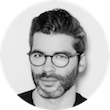
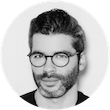
Add several design improvements
- New more paragraph in home and about with additional information about
parallel activities and memberships
- site.title is now used everywhere
- stackoverflow profile link
- some line height parameteres changed
- use improved rotated image

Changed region(s): [[0.1364, 0.0545, 0.8182, 0.9818], [0.4636, 0.9818, 0.5182, 1.0], [0.4636, 0.6273, 0.4909, 0.6545]]

diff --git a/_layouts/home.html b/_layouts/home.html
@@ -7,7 +7,7 @@
 {% include _head.html %}
 </head>
 
-<body class="home">
+<body class="page">
 
 {% include _browser-upgrade.html %}
 
@@ -28,22 +28,61 @@
 <!--</div>-->
 <!--{% endif %}-->
 
-<div class="article-author-side">
-  {% include _author-bio.html %}
-</div>
-
-<div id="index">
-    <!--<h3><a href="{{ site.url}}/posts/">Recent Posts</a></h3>-->
-  {% for post in site.posts limit:5 %}    
+<div id="main" role="main">
+  <div class="article-author-side">
+    {% include _author-bio.html %}
+  </div>
   <article>
-    {% if post.link %}
-      <h2 class="link-post"><a href="{{ site.url }}{{ post.url }}" title="{{ post.title }}">{{ post.title }}</a> <a href="{{ post.link }}" target="_blank" title="{{ post.title }}"><i class="fa fa-link"></i></h2>
-    {% else %}
-      <h2><a href="{{ site.url }}{{ post.url }}" title="{{ post.title }}">{{ post.title }}</a></h2>
-      <p>{{ post.excerpt | strip_html | truncate: 160 }}</p>
-    {% endif %}
+      <!--<h1>{{ page.title }}</h1>-->
+    <div class="article-wrap">
+      {{ content }}
+
+      <div class="more">
+      {% capture text-capture %}
+
+##### Reviewer for Journals
+International Journal of Information Security (IJIS)<br>
+Information Security Journal: A Global Perspective (ISJ)<br>
+Information Security Technical Report (ISTR)<br>
+Journal of Information Security and Applications (JISA)<br>
+Data Mining and Knowledge Discovery (DAMI)<br>
+IET Information Security (IET-IS)<br>
+Pervasive and Mobile Computing (PMC)<br>
+Security and Communication Networks (SCN)<br>
+Transactions on Dependable and Secure Computing (TDSC)<br>
+Neural Computing and Applications (NCAA)<br>
+
+##### External Reviewer
+CCS<br>
+DIMVA<br>
+
+##### PC Memberships
+2018: Jornadas Nacionales de Ciberseguridad (JNIC)<br>
+2017: International Workshop on FORmal methods for Security Engineering (ForSE)<br>
+
+##### Organizations
+
+Norway Chapter Lead @ The Honeynet Project<br>
+Security Without Borders<br>
+
+##### Teaching
+Seminar Malware Analysis and Detection, WS 17/18 (Assistant)<br>
+Seminar Malware Analysis and Detection, WS 16/17 (Assistant)<br>
+Seminar Malware Analysis and Detection, WS 15/16 (Assistant)<br>
+
+##### Bachelor and Master Thesis
+
+##### Awards
+German Prize for IT-Security 2016 (2nd Place)
+
+
+        {% endcapture %}
+
+        {% include widgets/toggle.html name="more-text" button-text="•••" text=text-capture %}
+
+    </div><!-- /.more -->
+    </div><!-- /.article-wrap -->
   </article>
-  {% endfor %}
 </div><!-- /#index -->
 
 <div class="footer-wrap">
@@ -52,7 +91,10 @@
   </footer>
 </div><!-- /.footer-wrap -->
 
-{% include _scripts.html %}
-  
+{% include _scripts.html %}          
+
+
+
+
 </body>
 </html>

diff --git a/_sass/elements.scss b/_sass/elements.scss
@@ -65,6 +65,50 @@ svg:not(:root) {
     color: $primary;
   }
 }
+label.btn-more{
+  display: inline-block;
+  transition: .1s;
+  cursor: pointer;
+  user-select: none;
+  margin-bottom: 5px;
+  padding: 2px 5px;
+  @include font-rem(7);
+  background-color: $white;
+  color: $primary;
+  @include rounded(3px);
+  //&:visited {
+  //  color: $white;
+  //}
+  &:hover {
+  background-color: $primary;
+  color: $white;
+  border-width: 2px !important;
+  border-style: solid !important;
+  border-color: $primary;
+  }
+  &:active{
+  background-color: $white;
+  color: $primary;
+  }
+}
+input.btn-more{
+    display:none;
+}
+input.btn-more + *{
+    visibility: hidden;
+}
+input.btn-more:checked + *{
+    visibility: visible;
+}
+// When JavaScript is disabled, we hide the more toggle button
+.no-js .btn-more{
+	display: none;
+}
+// When JavaScript is disabled, we show the more content 
+.no-js input.btn-more + *{
+    visibility: visible;
+}
+
 .btn-success {
   background-color: $success;
   color: $white;
@@ -122,4 +166,8 @@ svg:not(:root) {
 	border: 1px solid #e3e3e3;
 	@include rounded(4px);
 	@include box-shadow(inset 0 1px 1px rgba(0, 0, 0, 0.05));
+}
+
+.more {
+    margin-top: 10px;
 }

diff --git a/_sass/typography.scss b/_sass/typography.scss
@@ -11,15 +11,19 @@ h2 {
 }
 h3 {
 	@include font-size(24);
+    margin: 5px 0px;
 }
 h4 {
 	@include font-size(18);
+    margin: 5px 0px;
 }
 h5 {
 	@include font-size(16);
+    margin: 5px 0px;
 }
 h6 {
 	@include font-size(14);
+    margin: 5px 0px;
 }
 
 // Links
@@ -111,14 +115,15 @@ blockquote {
 // Paragraphs
 // --------------------------------------------------
 p {
-	margin: 0 0 $indent-var;
-	// sibling indentation
-  @if $paragraph-indent == true {
-    & + p {
-			text-indent: $indent-var;
-			margin-top: -($indent-var);
-		}
-	}
+	//margin: 0 0 $indent-var;
+	margin: 0;
+  // sibling indentation
+  //@if $paragraph-indent == true {
+  //  & + p {
+  //		text-indent: $indent-var;
+  //			margin-top: -($indent-var);
+  //	}
+  //}
 }
 
 // Code

diff --git a/_includes/_author-bio.html b/_includes/_author-bio.html
@@ -7,7 +7,8 @@
 {% else %}
 <!--<img src="{{ site.url }}/images/{{ author.avatar }}" class="bio-photo" alt="{{ author.name }}"></a>-->
 {% endif %}
-<h4>{{ author.name }}</h4>
+<!--<h4>{{ author.name }}</h4>-->
+<p><br></p>
 <p>{{ author.bio }}</p>
 {% if author.email %}<a href="mailto:{{ author.email }}" class="author-social" target="_blank"><i class="fa fa-envelope-square"></i> Email</a>{% endif %}
 {% if author.email %}<a href="/A687F4B3.asc" class="author-social" target="_blank"><i class="fa fa-lock"></i> PGP Key</a>{% endif %}

diff --git a/_sass/page.scss b/_sass/page.scss
@@ -201,6 +201,7 @@ $button-size: 1.5rem;
 	-ms-transition: max-height .4s;
 	transition: max-height .4s;
 }
+
 #main {
 	counter-reset: captions;
 	@include container;
@@ -415,6 +416,9 @@ $button-size: 1.5rem;
 	li > a.reversefootnote {
 		border-bottom-width: 0;
 	}
+}
+.more{
+    font-size: 75%;
 }
 .toc {
 	display: none;

diff --git a/_sass/variables.scss b/_sass/variables.scss
@@ -1,6 +1,6 @@
 // TYPOGRAPHY ================================================
 $doc-font-size: 14;
-$doc-line-height: 26;
+$doc-line-height: 30;
 $paragraph-indent: true !default;
 $base-font: 'PT Serif', serif;
 $heading-font: 'PT Sans Narrow', sans-serif;

diff --git a/about/index.md b/about/index.md
@@ -1,6 +1,6 @@
 ---
-layout: page
-title: "- Hugo Gascon"
+layout: home
+title: "About"
 tags: [about]
 modified:
 comments: false
@@ -29,4 +29,3 @@ for high dimensional structured data to analyse and reverse engineer malware
 code and build system behavioral models that facilitate
 the early identification of targeted attacks.
 
-<br>

diff --git a/index.md b/index.md
@@ -1,6 +1,6 @@
 ---
-layout: page
-title: 
+layout: home 
+title: "Home"
 tags: [about]
 modified:
 comments: false
@@ -28,4 +28,3 @@ for high dimentional structured data to analyse and reverse engineer malware
 code and build system behavioral models that facilitate
 the early identification of targeted attacks.
 
-<br>

diff --git a/publications/index.md b/publications/index.md
@@ -1,8 +1,8 @@
 ---
 layout: page
-title: "- Hugo Gascon"
+title: "Publications"
 tags: [publications]
-modified: 8-8-2014
+modified: 
 comments: false
 
 ---

diff --git a/projects/index.md b/projects/index.md
@@ -1,8 +1,8 @@
 ---
 layout: page
-title: "- Hugo Gascon"
+title: "Projects"
 tags: [projects]
-modified: 8-8-2014
+modified:
 comments: false
 ---
 

diff --git a/posts/index.md b/posts/index.md
@@ -1,5 +1,5 @@
 ---
 layout: post-index
-title: "- Hugo Gascon"
+title: "Posts"
 excerpt: "A List of Posts"
 ---
